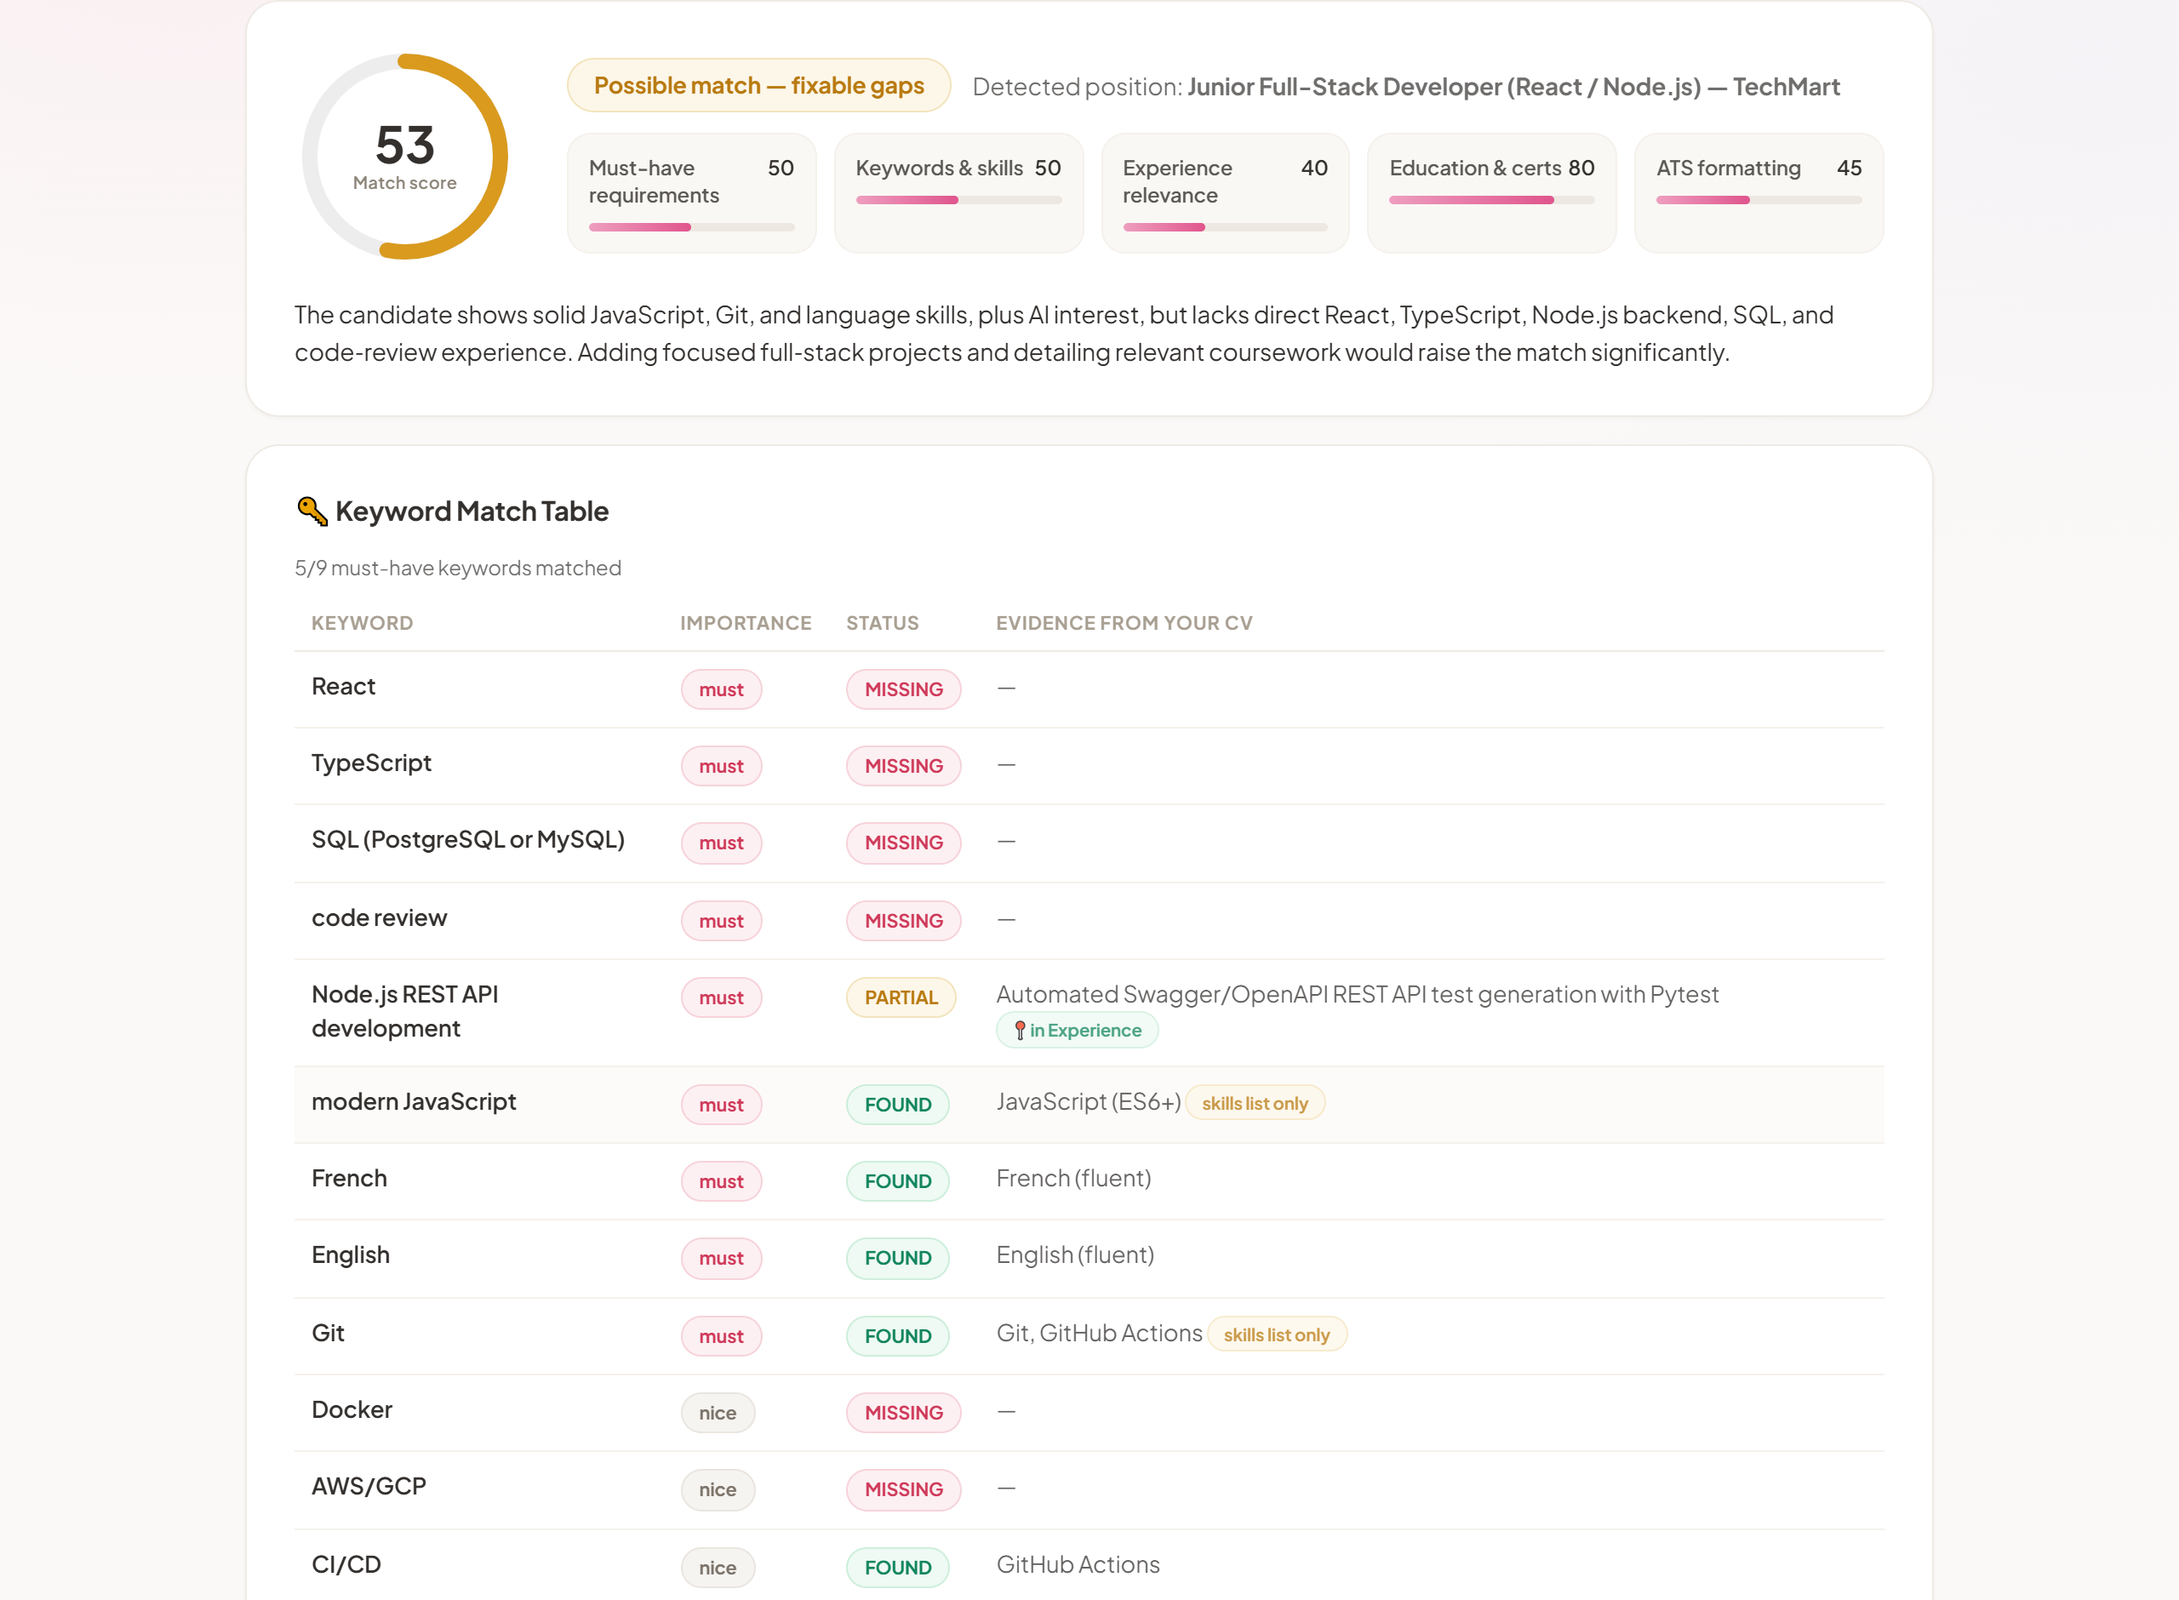
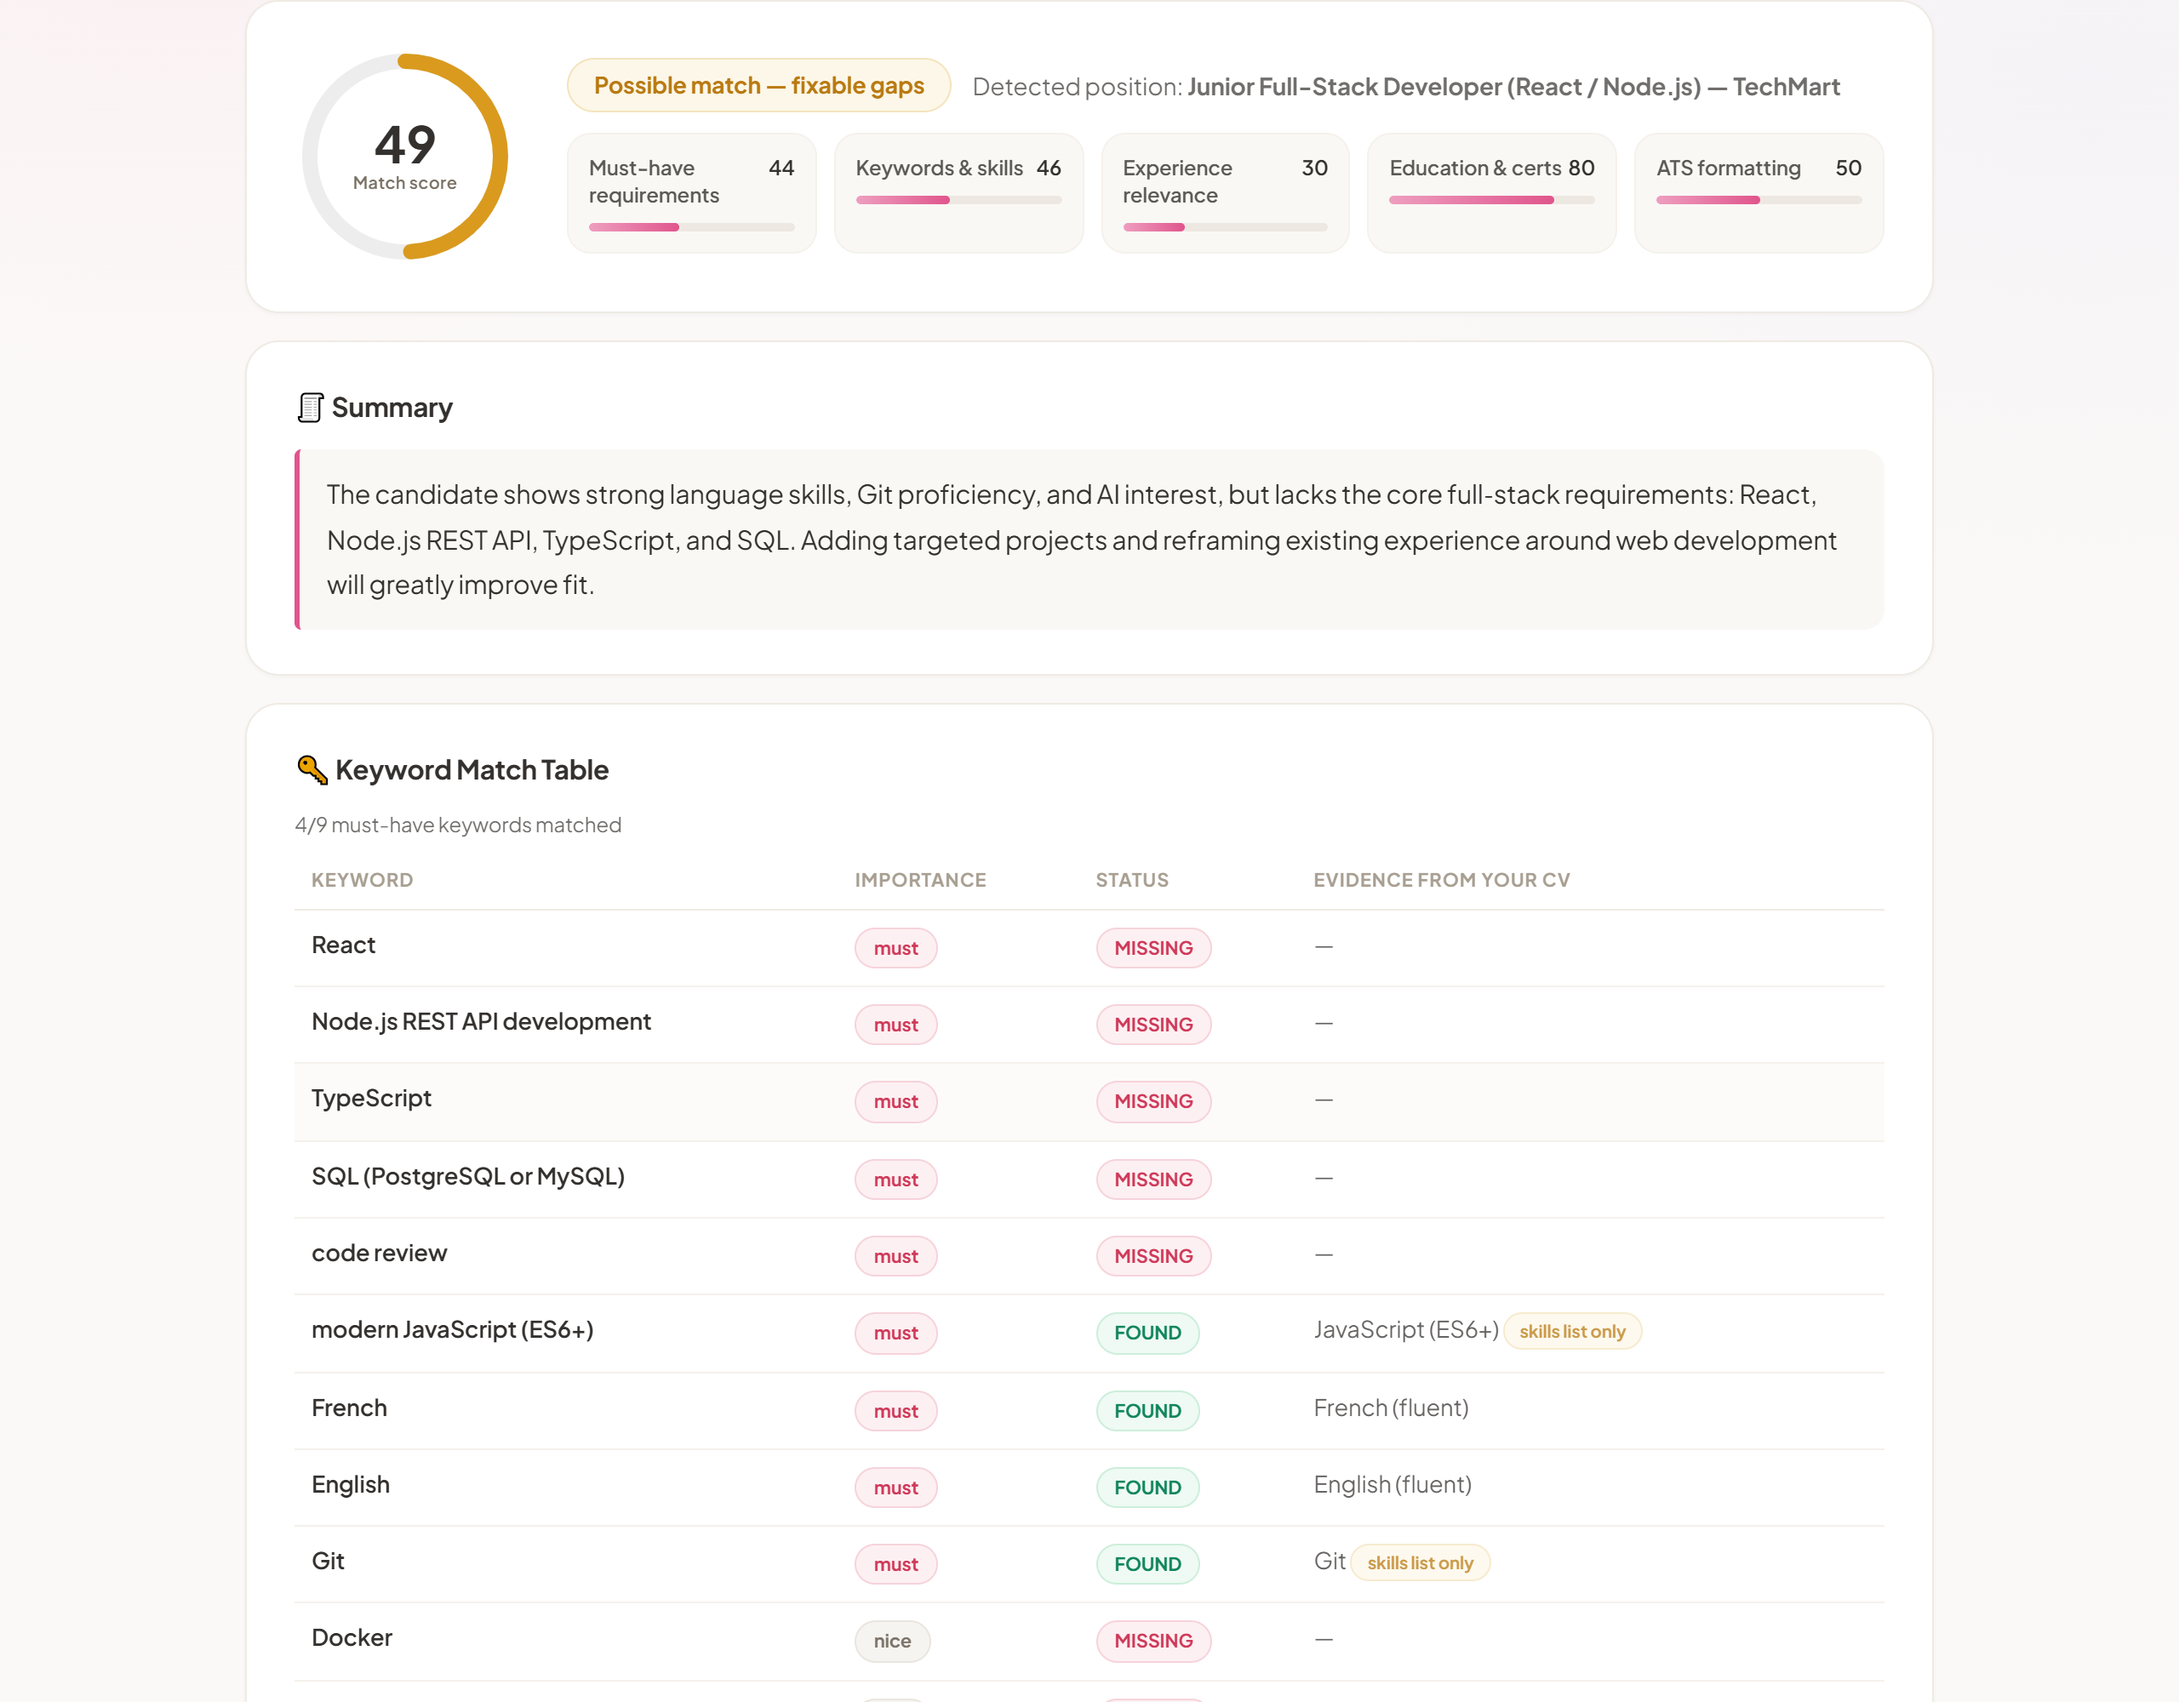
Filter empty/emoji-only model items (orphan chip fix in UI+PDF); drop duplicated '!' in PDF rule headings; refresh results screenshot with new card layout

diff --git a/js/app.js b/js/app.js
@@ -5,6 +5,7 @@
     const $ = (id) => document.getElementById(id);
     const t = (k) => window.I18N.t(k);
     const esc = (s) => String(s ?? '').replace(/[&<>"]/g, (c) => ({ '&': '&amp;', '<': '&lt;', '>': '&gt;', '"': '&quot;' }[c]));
+    const hasText = (s) => /\p{L}/u.test(String(s || ''));
 
     // current analysis context (used by rewrite / PDF / share / history)
     let currentCtx = null;
@@ -382,9 +383,9 @@
 
         // 4 — one clearly-typed card per action: add / improve / remove
         const actionCards = [
-            { key: 'addTitle', icon: '✅', cls: 'add', color: '#12855f', items: result.add.map((a) => ({ head: a.what, body: a.why, ex: a.example || '' })) },
-            { key: 'improveTitle', icon: '✏', cls: 'improve', color: '#b97a10', items: result.improve.map((i) => ({ head: i.section + ' — ' + i.suggestion, before: i.before, after: i.after })) },
-            { key: 'removeTitle', icon: '❌', cls: 'remove', color: '#cf3a5a', items: result.remove.map((r) => ({ head: r.what, body: r.why })) },
+            { key: 'addTitle', icon: '✅', cls: 'add', color: '#12855f', items: result.add.map((a) => ({ head: a.what, body: a.why, ex: a.example || '' })).filter((it) => hasText(it.head) || hasText(it.body)) },
+            { key: 'improveTitle', icon: '✏', cls: 'improve', color: '#b97a10', items: result.improve.map((i) => ({ head: i.section + ' — ' + i.suggestion, before: i.before, after: i.after })).filter((it) => hasText(it.head)) },
+            { key: 'removeTitle', icon: '❌', cls: 'remove', color: '#cf3a5a', items: result.remove.map((r) => ({ head: r.what, body: r.why })).filter((it) => hasText(it.head) || hasText(it.body)) },
         ];
         actionCards.forEach((sec) => {
             if (!sec.items.length) return;
@@ -605,9 +606,9 @@
 
         // ---- add / improve / remove as numbered lists ----
         const lists = [
-            { title: t('addTitle'), color: GREEN, items: result.add.map((a) => ({ head: a.what, body: a.why, ex: a.example || '' })) },
-            { title: t('improveTitle'), color: AMBER, items: result.improve.map((i) => ({ head: i.section + ' - ' + i.suggestion, body: (i.before || i.after) ? '"' + (i.before || '...') + '"  ->  "' + (i.after || '...') + '"' : '', ex: '' })) },
-            { title: t('removeTitle'), color: RED, items: result.remove.map((r) => ({ head: r.what, body: r.why, ex: '' })) },
+            { title: t('addTitle'), color: GREEN, items: result.add.map((a) => ({ head: a.what, body: a.why, ex: a.example || '' })).filter((it) => hasText(it.head) || hasText(it.body)) },
+            { title: t('improveTitle'), color: AMBER, items: result.improve.map((i) => ({ head: i.section + ' - ' + i.suggestion, body: (i.before || i.after) ? '"' + (i.before || '...') + '"  ->  "' + (i.after || '...') + '"' : '', ex: '' })).filter((it) => hasText(it.head)) },
+            { title: t('removeTitle'), color: RED, items: result.remove.map((r) => ({ head: r.what, body: r.why, ex: '' })).filter((it) => hasText(it.head) || hasText(it.body)) },
         ];
         lists.forEach((sec) => {
             if (!sec.items.length) return;
@@ -643,7 +644,7 @@
         section(t('rulesTitle'), rules.failed.length, rules.failed.length ? RED : GREEN);
         rules.failed.forEach((f) => {
             setFont('bold', 9, INK);
-            const head = doc.splitTextToSize('! ' + pdfSafe(f.issue), CW - 9);
+            const head = doc.splitTextToSize(pdfSafe(f.issue), CW - 9);
             setFont('normal', 8.5, MUTED);
             const body = doc.splitTextToSize(pdfSafe(f.fix), CW - 9);
             const h = head.length * 4.2 + body.length * 3.9 + 3.5;

diff --git a/js/analyze.js b/js/analyze.js
@@ -70,14 +70,16 @@
                 status: ['found', 'partial', 'missing'].includes(k.status) ? k.status : 'missing',
                 evidence: String(k.evidence || ''),
             })),
-            add: (Array.isArray(parsed.add) ? parsed.add : []).slice(0, 8).map(normItem),
-            remove: (Array.isArray(parsed.remove) ? parsed.remove : []).slice(0, 6).map(normItem),
+            add: (Array.isArray(parsed.add) ? parsed.add : []).slice(0, 8).map(normItem)
+                .filter((i) => hasText(i.what) || hasText(i.why)),
+            remove: (Array.isArray(parsed.remove) ? parsed.remove : []).slice(0, 6).map(normItem)
+                .filter((i) => hasText(i.what) || hasText(i.why)),
             improve: (Array.isArray(parsed.improve) ? parsed.improve : []).slice(0, 8).map((i) => ({
                 section: String(i.section || ''),
                 suggestion: String(i.suggestion || ''),
                 before: String(i.before || ''),
                 after: String(i.after || ''),
-            })),
+            })).filter((i) => hasText(i.section) || hasText(i.suggestion) || hasText(i.before) || hasText(i.after)),
             summary: String(parsed.summary || ''),
         };
     }
@@ -141,6 +143,10 @@
     function normItem(i) {
         return { what: String(i.what || i.section || ''), why: String(i.why || i.suggestion || ''), example: String(i.example || '') };
     }
+
+    // a field counts as content only if it holds at least one real letter
+    // (models sometimes emit emoji-only or whitespace-only items)
+    function hasText(s) { return /\p{L}/u.test(String(s || '')); }
 
     window.CvAnalyze = { analyze, rewrite };
 })();
